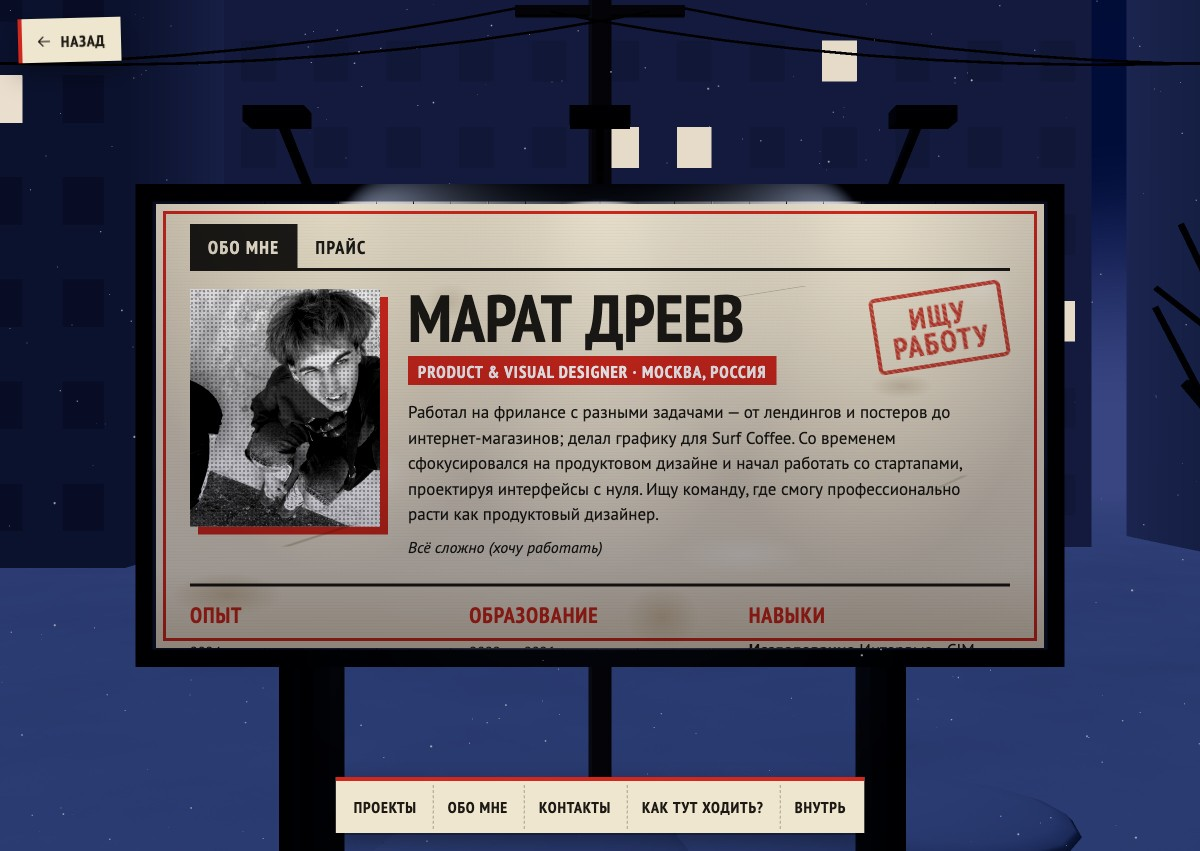
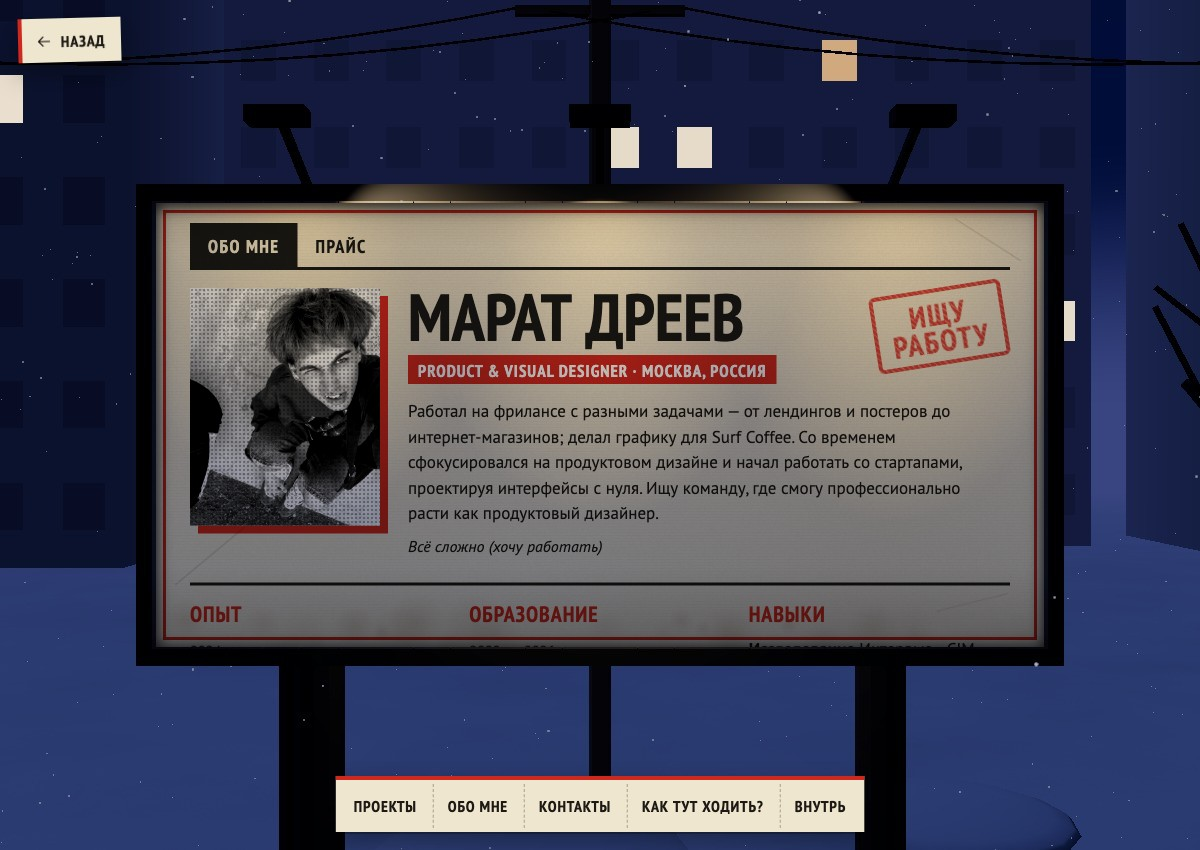
feat: projects on the TV play as tape, not as web cards
Case text runs as subtitles with a shot counter, the facts sit in the
player's INFO overlay, every picture is a frame with a VHS timecode, the
owner's logo backdrops become the frame, emoji are dropped and the film
ends with credits.

diff --git a/assets/css/screens.css b/assets/css/screens.css
@@ -277,71 +277,214 @@
   text-shadow: 2px 2px 0 #000;
 }
 
+/* end credits */
 .tv-end {
-  margin: 44px 0 0;
-  color: rgba(255, 255, 255, .45);
-  font: 400 14px var(--pt-mono);
-  letter-spacing: .1em;
+  margin: 64px 0 0;
   text-align: center;
+}
+
+.tv-end p {
+  margin: 0;
+  color: rgba(255, 255, 255, .45);
+  font: 400 13px var(--pt-mono);
+  letter-spacing: .1em;
   text-transform: uppercase;
 }
 
-/* the owner's case blocks, written for the old site, dressed for the TV */
+.tv-end .tv-end-title {
+  margin-bottom: 8px;
+  color: #fff;
+  font: 700 44px/1 var(--pt-narrow);
+  letter-spacing: .32em;
+  text-shadow: 0 0 14px rgba(255, 255, 255, .35);
+}
+
+/* The owner's case, written for the old site, plays as tape: no web cards.
+   Text runs as subtitles over the picture, each block is a shot with its
+   counter, the facts sit in the player's INFO overlay and every picture is a
+   frame with a VHS timecode (wrapped in pages.js). */
+.tv-section { counter-reset: shot; }
+
 .tv-page .rich-content p,
 .tv-page .cs-text {
-  max-width: 62ch;
+  max-width: 58ch;
   margin: 0;
-  color: #eef0f5;
-  font: 18px/1.55 var(--pt-sans);
+  color: #fff;
+  font: 400 19px/1.5 var(--pt-sans);
+  text-shadow: 0 0 2px #000, 1px 1px 0 #000, -1px 1px 0 #000, 1px -1px 0 #000, -1px -1px 0 #000;
 }
 
 .tv-page .rich-content p + p { margin-top: 10px; }
 
 .tv-page .cs-section {
-  margin: 0 0 12px;
-  padding: 12px 16px 14px;
-  background: rgba(255, 255, 255, .045);
+  margin: 0 0 22px;
+  padding: 0;
+  background: none;
   border: 0;
-  border-left: 3px solid var(--subtitle);
+  counter-increment: shot;
 }
 
-.tv-page .cs-section-title {
-  margin-bottom: 6px;
-  color: #fff;
-  font: 700 19px/1.15 var(--pt-narrow);
-  letter-spacing: .03em;
-  text-transform: uppercase;
+.tv-page .cs-section::before {
+  content: 'КАДР ' counter(shot, decimal-leading-zero);
+  display: block;
+  margin-bottom: 4px;
+  color: var(--osd);
+  font: 400 12px var(--pt-mono);
+  letter-spacing: .14em;
+  opacity: .75;
 }
+
+/* subtitles for the hard of hearing put the speaker in brackets */
+.tv-page .cs-section-title {
+  margin-bottom: 4px;
+  color: var(--subtitle);
+  font: 700 17px/1.2 var(--pt-narrow);
+  letter-spacing: .06em;
+  text-transform: uppercase;
+  text-shadow: 1px 1px 0 #000;
+}
+
+.tv-page .cs-section-title::before { content: '['; }
+.tv-page .cs-section-title::after { content: ']'; }
 
 .tv-page .cs-ico { display: none; }
 
 .tv-page .cs-row-2 {
-  grid-template-columns: repeat(auto-fit, minmax(160px, 1fr));
-  gap: 8px;
+  display: grid;
+  grid-template-columns: 1fr 1fr;
+  gap: 0 28px;
+  max-width: 640px;
+  padding: 8px 16px 10px;
+  background: rgba(0, 0, 0, .55);
+  border: 1px solid rgba(109, 255, 122, .35);
+}
+
+.tv-page .cs-row-2::before {
+  content: 'ИНФОРМАЦИЯ';
+  grid-column: 1 / -1;
+  padding: 2px 0 4px;
+  color: var(--osd);
+  font: 400 12px var(--pt-mono);
+  letter-spacing: .16em;
+  text-shadow: 0 0 6px rgba(109, 255, 122, .6);
 }
 
 .tv-page .cs-card {
-  padding: 10px 12px;
-  background: rgba(4, 7, 18, .6);
-  border: 1px solid rgba(255, 255, 255, .14);
+  display: flex;
+  justify-content: space-between;
+  align-items: baseline;
+  gap: 12px;
+  padding: 7px 0;
+  background: none;
+  border: 0;
+  border-bottom: 1px dashed rgba(255, 255, 255, .16);
 }
 
 .tv-page .cs-card-title {
-  margin-bottom: 4px;
+  margin: 0;
   color: var(--subtitle);
-  font: 700 12px var(--pt-narrow);
-  letter-spacing: .16em;
+  font: 400 13px var(--pt-mono);
+  letter-spacing: .06em;
+  text-transform: uppercase;
 }
 
 .tv-page .cs-card-text {
   color: #fff;
-  font: 16px/1.35 var(--pt-sans);
+  font: 400 16px/1.3 var(--pt-sans);
+  text-align: right;
 }
 
-.tv-page .rich-content img,
-.tv-page .cs-section img {
-  border: 0;
-  box-shadow: 0 0 0 1px rgba(255, 255, 255, .15);
+.tv-page .rich-content ul {
+  margin: 6px 0 0;
+  padding: 0;
+  list-style: none;
+}
+
+.tv-page .rich-content li {
+  color: #fff;
+  font: 400 18px/1.5 var(--pt-sans);
+  text-shadow: 1px 1px 0 #000;
+}
+
+.tv-page .rich-content li::before {
+  content: '▸ ';
+  color: var(--subtitle);
+}
+
+/* a frame of tape: rounded like the picture tube, scanlines, a timecode */
+.tv-frame {
+  position: relative;
+  display: block;
+  width: fit-content;
+  max-width: 100%;
+  margin: 12px 0;
+  overflow: hidden;
+  background: #05070f;
+  border-radius: 14px / 11px;
+  box-shadow: 0 0 0 3px #000, 0 0 0 4px rgba(255, 255, 255, .1), 0 0 30px rgba(120, 150, 255, .14);
+}
+
+.tv-frame img {
+  display: block;
+  max-width: 100%;
+  margin: 0 !important;
+  border: 0 !important;
+  border-radius: 0 !important;
+  box-shadow: none;
+  filter: contrast(1.06) saturate(1.15);
+}
+
+.tv-frame::after {
+  content: '';
+  position: absolute;
+  inset: 0;
+  background:
+    repeating-linear-gradient(to bottom, rgba(0, 0, 0, .16) 0 1px, transparent 1px 3px),
+    radial-gradient(ellipse at center, transparent 60%, rgba(0, 0, 0, .45));
+  pointer-events: none;
+}
+
+/* a logo the owner set on its own backdrop: the backdrop is the frame */
+.tv-page .rich-content [style*="background"] {
+  position: relative;
+  overflow: hidden;
+  border-radius: 14px / 11px !important;
+  box-shadow: 0 0 0 3px #000, 0 0 0 4px rgba(255, 255, 255, .1), 0 0 30px rgba(120, 150, 255, .14);
+  counter-increment: none;
+}
+
+.tv-page .rich-content [style*="background"]::before { content: none; }
+
+.tv-page .rich-content [style*="background"]::after {
+  content: '';
+  position: absolute;
+  inset: 0;
+  background:
+    repeating-linear-gradient(to bottom, rgba(0, 0, 0, .12) 0 1px, transparent 1px 3px),
+    radial-gradient(ellipse at center, transparent 60%, rgba(0, 0, 0, .35));
+  pointer-events: none;
+}
+
+.tv-page .rich-content [style*="background"] .tv-frame {
+  position: static;
+  margin: 0 auto;
+  overflow: visible;
+  background: transparent;
+  border-radius: 0;
+  box-shadow: none;
+}
+
+.tv-page .rich-content [style*="background"] .tv-frame::after { content: none; }
+
+.tv-frame-osd {
+  position: absolute;
+  z-index: 1;
+  top: 8px;
+  right: 12px;
+  color: #fff;
+  font: 400 14px var(--pt-mono);
+  letter-spacing: .06em;
+  text-shadow: 0 0 3px #000, 0 0 6px #000;
 }
 
 /* ---------- TV guide: Teletext page 100 ---------- */
@@ -497,45 +640,51 @@
 
 .screen-billboard .screen-scroll { scrollbar-color: rgba(27, 26, 23, .5) transparent; }
 
-/* In the scene the poster is paper under three lamps, not a lit screen: it
-   is brightest under the lamps along the top and falls off below, with a
-   winter's worth of wear. The layer multiplies, so ink stays black and only
-   the paper dims and dirties. */
+/* Keep the print and its lighting in one blending group. Decorative layers
+   stay fixed to the physical sheet while the readable content scrolls. */
+.kiosk-screens .screen-billboard {
+  isolation: isolate;
+}
+
+.kiosk-screens .screen-billboard.is-on {
+  animation: none;
+}
+
+.kiosk-screens .screen-billboard .screen-scroll {
+  z-index: 0;
+}
+
+/* Three pools of warm lamp light, cool ambient light below and contact
+   shadows from the steel rim. Lamp centres match the 4.8 m model: ±1.6 m. */
 .kiosk-screens .screen-billboard::after {
   content: '';
   position: absolute;
   inset: 0;
   pointer-events: none;
+  z-index: 2;
   mix-blend-mode: multiply;
+  box-shadow:
+    inset 0 10px 13px -3px rgba(8, 10, 16, .65),
+    inset 9px 0 14px -5px rgba(8, 10, 16, .48),
+    inset -9px 0 14px -5px rgba(8, 10, 16, .48),
+    inset 0 -7px 12px -4px rgba(8, 10, 16, .48);
   background:
-    /* scuffs and a couple of scratches */
-    linear-gradient(162deg, transparent 47%, rgba(80, 66, 46, .32) 50%, transparent 53%) 13% 76% / 130px 22px no-repeat,
-    linear-gradient(171deg, transparent 47%, rgba(80, 66, 46, .26) 50%, transparent 53%) 71% 19% / 90px 12px no-repeat,
-    linear-gradient(155deg, transparent 46%, rgba(80, 66, 46, .22) 50%, transparent 54%) 92% 64% / 70px 20px no-repeat,
-    /* grime: damp at the bottom edge, a few smudges */
-    radial-gradient(ellipse 9% 7% at 8% 88%, rgba(110, 92, 64, .35), transparent 70%),
-    radial-gradient(ellipse 6% 10% at 57% 93%, rgba(110, 92, 64, .3), transparent 70%),
-    radial-gradient(ellipse 5% 4% at 84% 41%, rgba(110, 92, 64, .22), transparent 70%),
-    radial-gradient(ellipse 4% 6% at 33% 22%, rgba(110, 92, 64, .16), transparent 70%),
-    linear-gradient(transparent 82%, rgba(120, 104, 80, .28)),
-    /* the three lamps */
-    radial-gradient(ellipse 24% 95% at 20% -12%, #fff 0%, rgba(255, 255, 255, 0) 100%),
-    radial-gradient(ellipse 24% 95% at 50% -12%, #fff 0%, rgba(255, 255, 255, 0) 100%),
-    radial-gradient(ellipse 24% 95% at 80% -12%, #fff 0%, rgba(255, 255, 255, 0) 100%),
-    linear-gradient(#d0cdcf, #a5a4b0);
+    radial-gradient(ellipse 23% 80% at 16.67% -8%, #f8ebce 0%, rgba(248,235,206,.65) 30%, rgba(248,235,206,0) 100%),
+    radial-gradient(ellipse 23% 80% at 50% -8%, #fff0d2 0%, rgba(255,240,210,.65) 30%, rgba(255,240,210,0) 100%),
+    radial-gradient(ellipse 23% 80% at 83.33% -8%, #f5e5c7 0%, rgba(245,229,199,.65) 30%, rgba(245,229,199,0) 100%),
+    linear-gradient(#aaa9b2 0%, #9295a5 55%, #80869b 100%);
 }
 
-/* rubbed, sun-faded patches in the paper itself, under the ink */
+/* Shared with the 3D texture: fibres, damp edges and small corner creases. */
 .kiosk-screens .screen-billboard::before {
   content: '';
   position: absolute;
   inset: 0;
   pointer-events: none;
-  mix-blend-mode: screen;
-  background:
-    radial-gradient(ellipse 7% 9% at 24% 61%, rgba(255, 250, 238, .35), transparent 70%),
-    radial-gradient(ellipse 10% 6% at 66% 79%, rgba(255, 250, 238, .3), transparent 70%),
-    radial-gradient(ellipse 5% 8% at 93% 18%, rgba(255, 250, 238, .3), transparent 70%);
+  z-index: 1;
+  mix-blend-mode: multiply;
+  background-image: var(--billboard-wear, none);
+  background-size: 100% 100%;
 }
 
 /* the sheets on the shutters catch only a little light, like their paint */

diff --git a/assets/js/kiosk/pages.js b/assets/js/kiosk/pages.js
@@ -26,6 +26,19 @@ function externalAttrs(link) {
   return link.kind === 'email' ? '' : ' target="_blank" rel="noreferrer"';
 }
 
+const EMOJI = /\p{Extended_Pictographic}\uFE0F?/gu;
+
+// The owner's case HTML as it plays on the TV: emoji (a web habit) dropped,
+// every picture a frame of tape with a VHS timecode in the corner.
+function onTape(html = '', scene = 1) {
+  let shot = 0;
+  return html.replace(EMOJI, '').replace(/<img\b[^>]*>/g, image => {
+    shot += 1;
+    const seconds = String((shot * 17) % 60).padStart(2, '0');
+    return `<span class="tv-frame">${image}<span class="tv-frame-osd" aria-hidden="true">▶ 00:${String(scene).padStart(2, '0')}:${seconds} SP</span></span>`;
+  });
+}
+
 // A DVD title menu on the CRT: the project is the film, its case sections
 // are the scenes, picked from the chapter list like on a pirate disc.
 export function renderTvChannel(project = {}, { index = 0, category = '' } = {}) {
@@ -50,9 +63,12 @@ export function renderTvChannel(project = {}, { index = 0, category = '' } = {})
     ${sections.map((section, number) => `<section class="tv-section" data-chapter-section="${number + 1}">
       <p class="tv-scene">Сцена ${number + 1}</p>
       <h2>${escapeHtml(plainLabel(section.label || ''))}</h2>
-      <div class="rich-content">${section.content || ''}</div>
+      <div class="rich-content">${onTape(section.content, number + 1)}</div>
     </section>`).join('')}
-    <p class="tv-end">Конец · CH+ — следующий канал</p>
+    <footer class="tv-end">
+      <p class="tv-end-title">Конец</p>
+      <p>CH+ — следующий канал · МЕНЮ — телепрограмма</p>
+    </footer>
   </article>`;
 }
 
